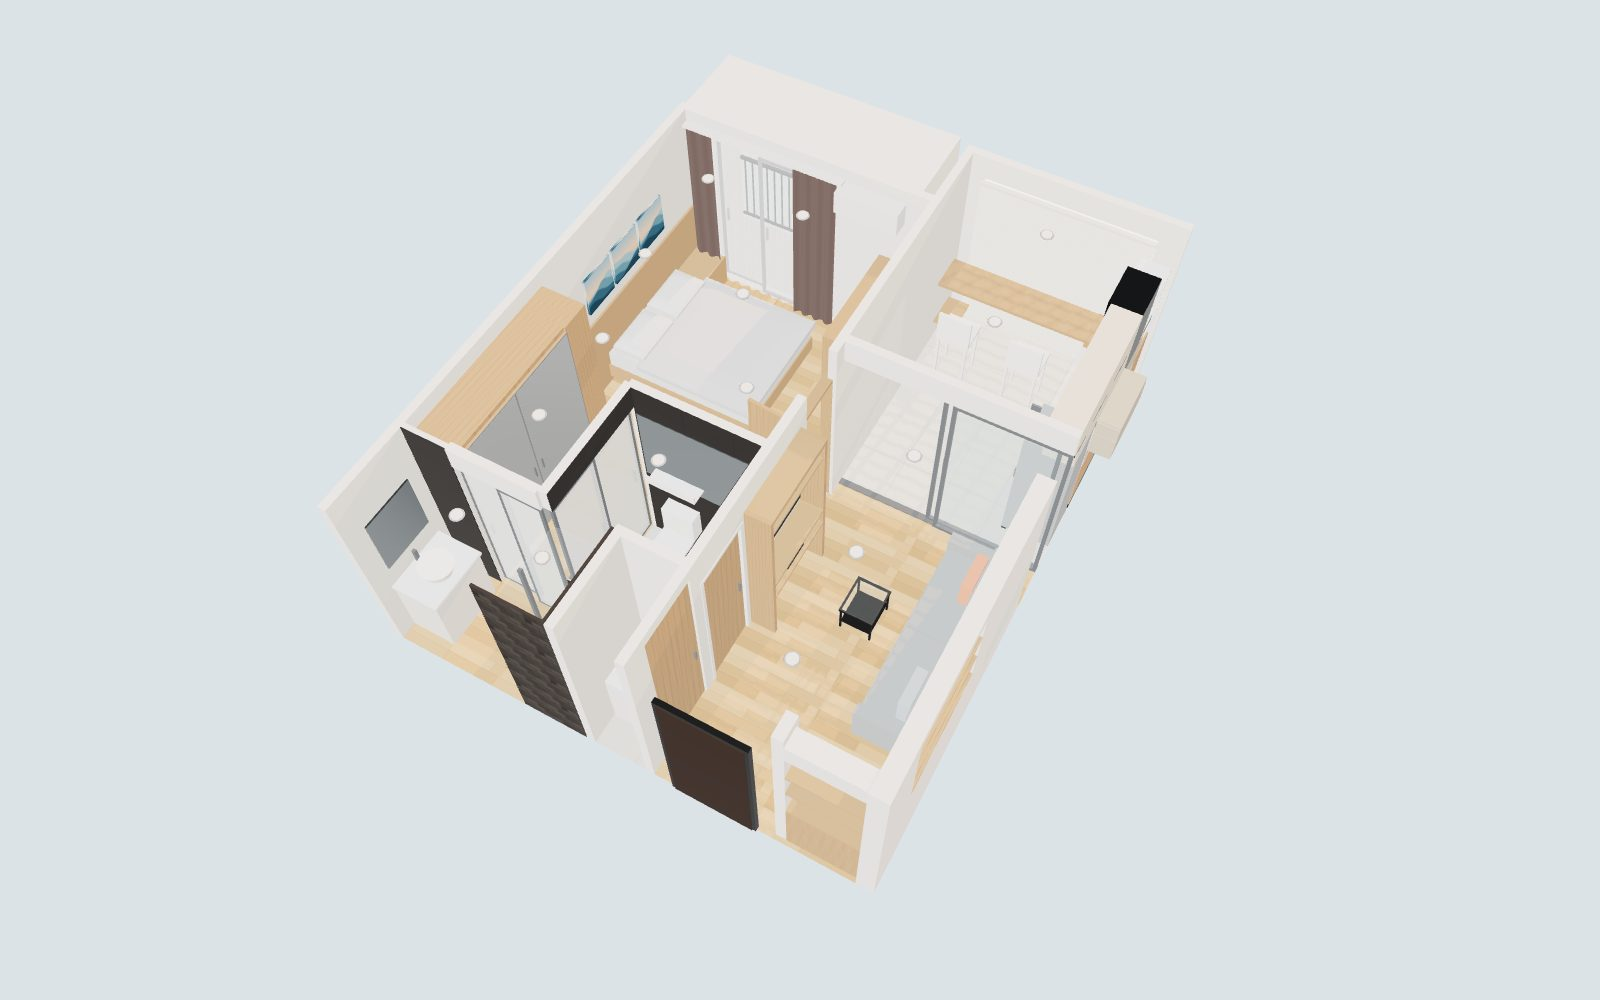
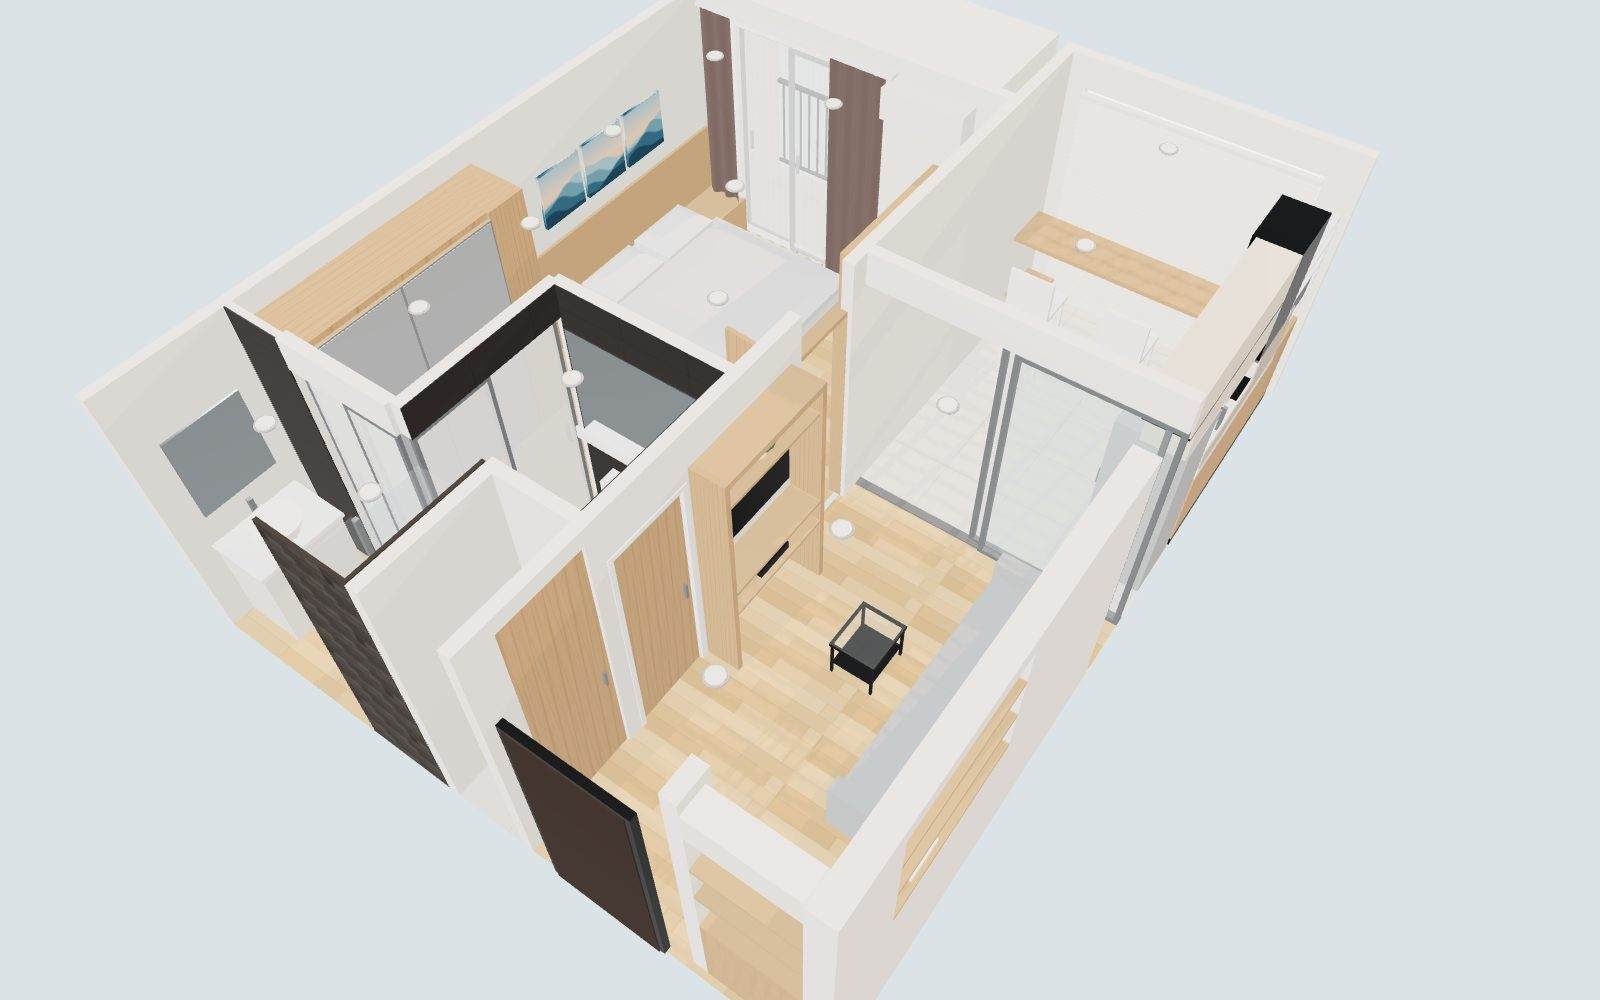
fix(viewer): kitchen niches hide with the east wall from above; above still back to its usual framing

Changed region(s): [[0.0938, 0.0, 0.8438, 1.0]]

diff --git a/rental-2026/3d/src/rooms/kitchen_living.js b/rental-2026/3d/src/rooms/kitchen_living.js
@@ -80,10 +80,11 @@ export function kitchen() {
   box(g, [E - 0.355, 2.11, -2.33], [E, 2.13, -0.66], mat.dark);                      // shadow gap between the rows
   // Two open niches set into the wall above the tap (from the scan, about 25 cm deep)
   for (const [z0, z1, y0, y1] of [[-2.42, -1.52, 1.19, 1.5], [-2.32, -1.52, 1.52, 1.7]]) {
-    box(g, [E + 0.24, y0, z0], [E + 0.26, y1, z1], splash, { shadow: false });            // back
-    box(g, [E, y0 - 0.02, z0], [E + 0.26, y0, z1], splash);                               // shelf (bottom)
-    box(g, [E, y1, z0], [E + 0.26, y1 + 0.02, z1], splash);                               // top
-    for (const z of [z0 - 0.02, z1]) box(g, [E, y0, z], [E + 0.26, y1, z + 0.02], splash); // sides
+    const nich = [box(g, [E + 0.24, y0, z0], [E + 0.26, y1, z1], splash, { shadow: false }),  // back
+      box(g, [E, y0 - 0.02, z0], [E + 0.26, y0, z1], splash),                                   // shelf (bottom)
+      box(g, [E, y1, z0], [E + 0.26, y1 + 0.02, z1], splash)];                                  // top
+    for (const z of [z0 - 0.02, z1]) nich.push(box(g, [E, y0, z], [E + 0.26, y1, z + 0.02], splash)); // sides
+    nich.forEach((m) => (m.userData.wall = 'z')); // hide with the east wall in the view from above
   }
   // Fridge: freezer on top, door gap, two handles, kick plate (front faces west)
   const fridge = new THREE.MeshStandardMaterial({ color: 0xdfe2e4, roughness: 0.25, metalness: 0.55 });
